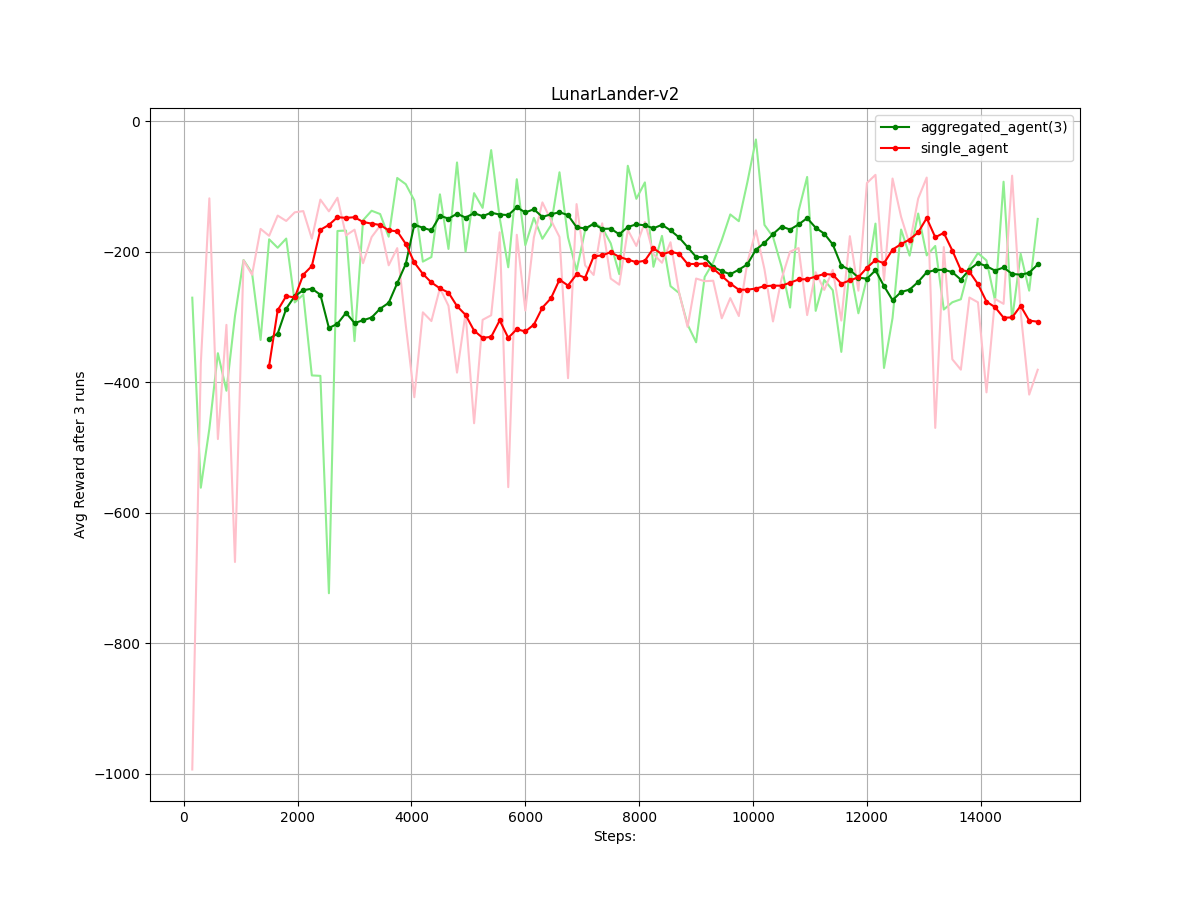
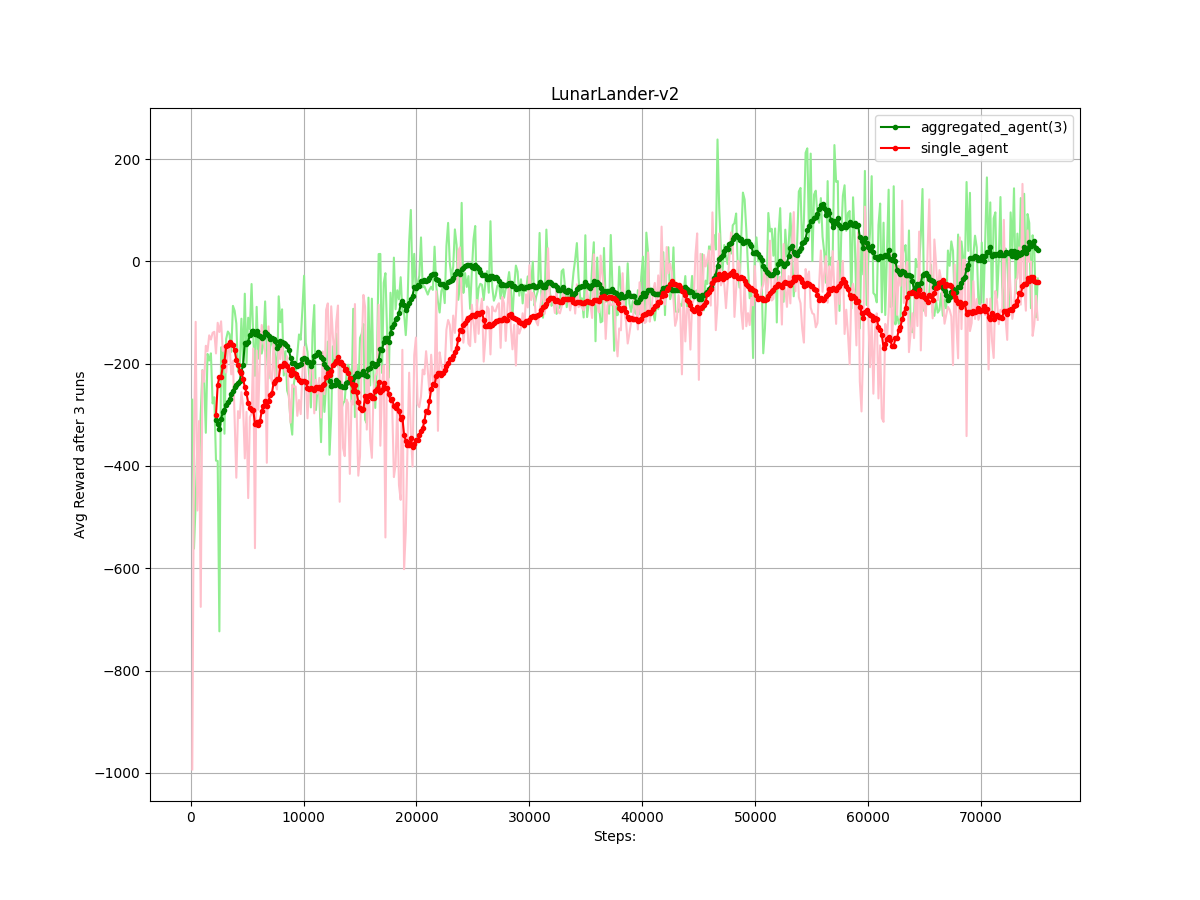
Added graph of Lunarlander and cartpole

diff --git a/plotter.py b/plotter.py
@@ -31,4 +31,4 @@ if __name__ == "__main__":
     y1 = np.loadtxt('arrays/scores_global_agent_'+ENV_NAME+'.csv')
     y2 = np.loadtxt('arrays/scores_single_agent_'+ENV_NAME+'.csv')
     x1 = np.loadtxt('arrays/steps_'+ENV_NAME+'.csv')
-    plot_graph(y1, y2, x1, ENV_NAME, 3, 10, HOW_MANY_VALUES =100)
+    plot_graph(y1, y2, x1, ENV_NAME, 3, 15, HOW_MANY_VALUES = 500)
